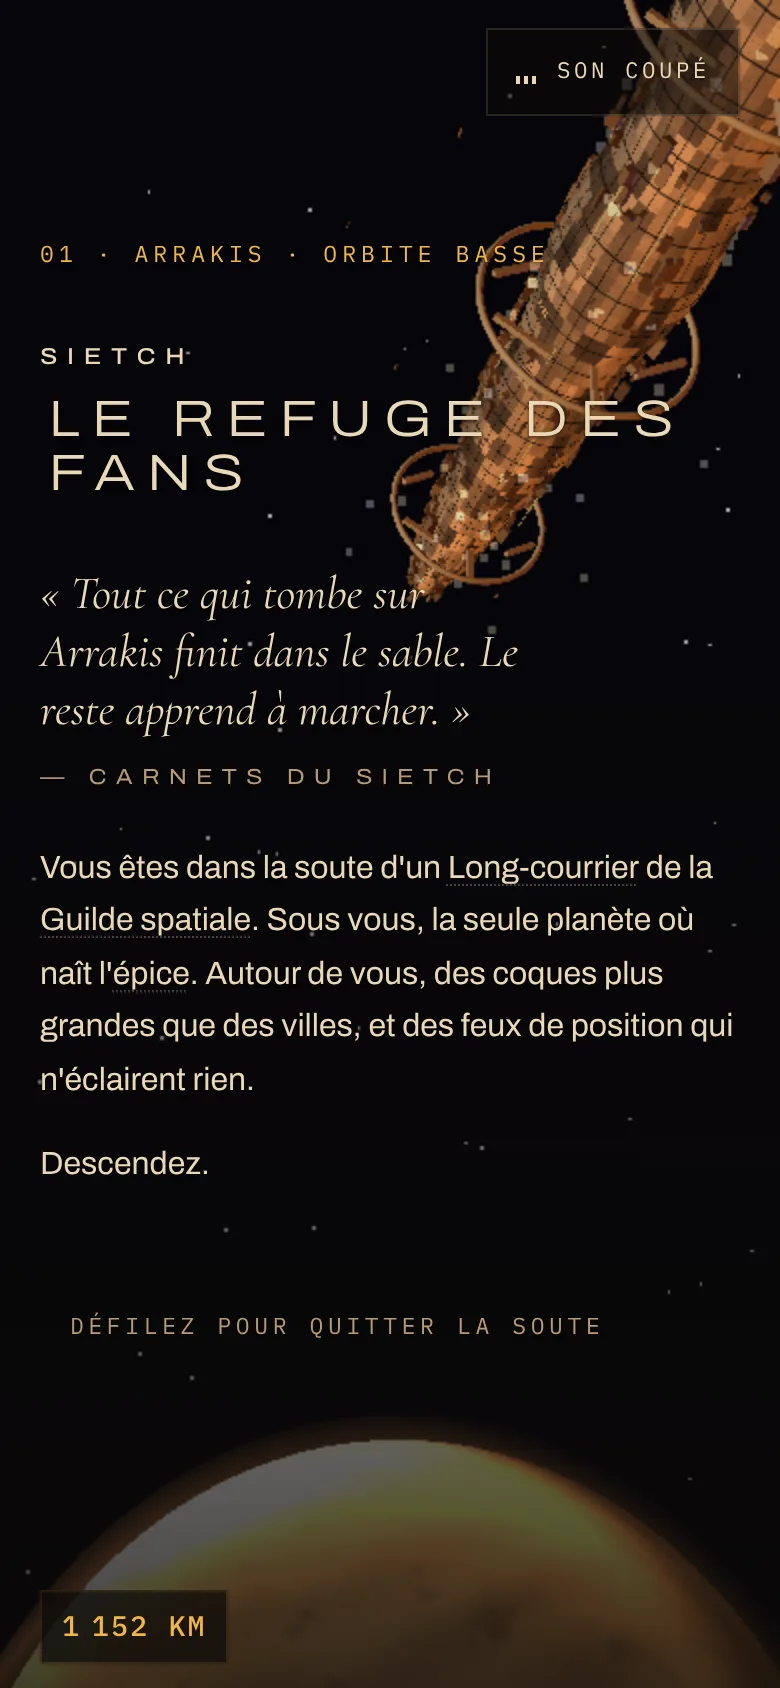
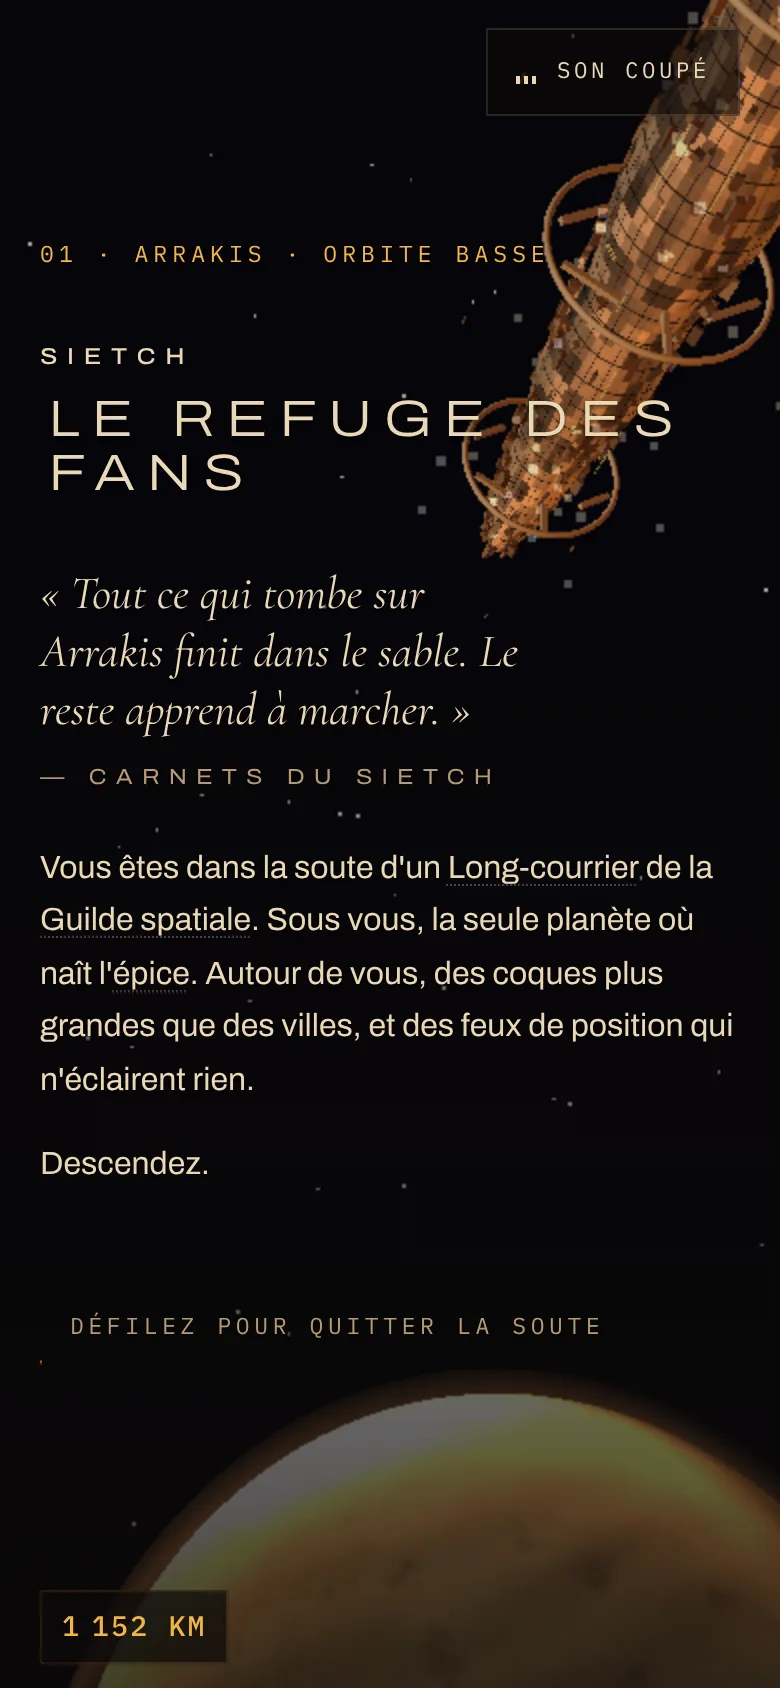
héro téléphone : le regard porte plus à gauche et plus bas, le long-courrier monte dans le coin supérieur droit et dégage le titre ; capture mobile du héro refaite
Claude-Session: https://claude.ai/code/session_01U1pct5BcuW4HXt57W7n8JT

diff --git a/src/world/createWorld.ts b/src/world/createWorld.ts
@@ -372,8 +372,9 @@ export function createWorld(canvas: HTMLCanvasElement, { tier }: WorldOptions): 
       wantPos.set(-28 + Math.sin(exitT * 1.3) * 5 + orbitT * 20, y, 24 + exitT * 18 + orbitT * 30);
       // Regard : d'abord la coque au-dessus, puis la planète en dessous.
       const look = smoothstep(0.15, 0.9, orbitT);
-      const side = camera.aspect < 0.8 ? -26 : 0; // téléphone : le vaisseau se décale, le texte reste lisible
-      tmp.set(18 + side, 10, -150).lerp(new THREE.Vector3(0, -600, -200), look);
+      const portrait = camera.aspect < 0.8;
+      const side = portrait ? -40 : 0; // téléphone : le regard porte plus à gauche et plus bas, le vaisseau monte à droite, le titre reste dégagé
+      tmp.set(18 + side, portrait ? 2 : 10, -150).lerp(new THREE.Vector3(0, -600, -200), look);
       wantTarget.copy(tmp);
       // Planète : loin et basse au début, elle monte vers nous pendant l'entrée.
       const planetY = lerp(-238, -250, smoothstep(0, 1, orbitT)) + entryT * 60;
